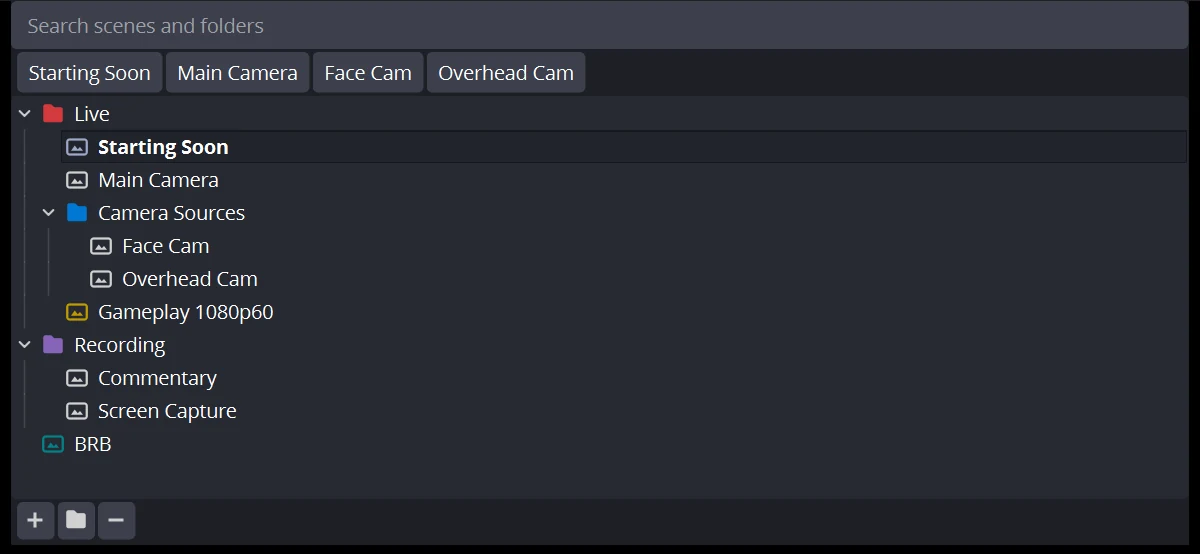
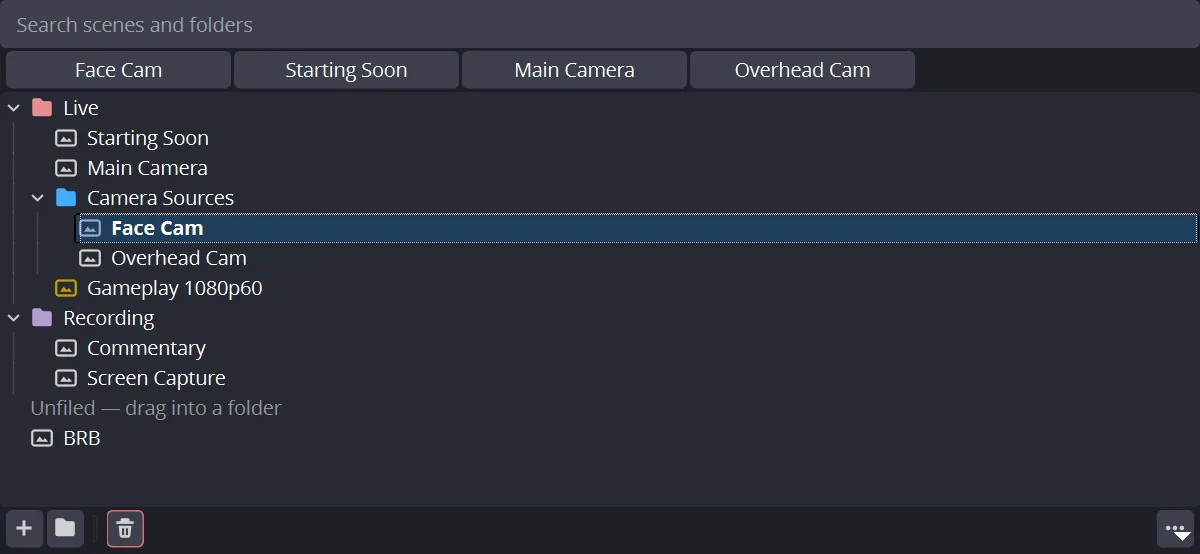
docs: re-shoot the hero shots so the toolbar matches what we ship
The old pair still showed the removed − button and a root-level tail scene;
the dock now has a separator, a danger-outlined trash, a settings entry and
an unfiled header. Note in design.md how a shot is taken without touching the
real OBS install or the user's config.

Changed region(s): [[0.0, 0.0, 1.0, 1.0]]

diff --git a/docs/design.md b/docs/design.md
@@ -198,6 +198,27 @@ obs-plugintemplate 官方模板。发行产物实测为：Windows x64 `.zip` / m
   永远跟着仓库名，可以省掉这次自我介绍。标题里放 Search 与 Colors 而不是「存在集合内」，
   是因为列表里读者比的是功能面，那个差异点要点进去才体会得到。
 
+### 首屏图：真 OBS 截的，不是量具渲染的
+
+`docs/images/hero-*.webp` 是浮窗 dock 的客户区实拍（1200×554 = 800×369 逻辑 @150% 缩放）。
+量具能渲染出同样的像素，但它不是「有人真的在用」的证据，所以这张图必须来自真进程。重拍一次要跨的坑：
+
+- **隔离配置用 `--portable`，但 portable 的配置根是相对工作目录的**（`../../config`）。
+  所以工作目录要摆成 `<scratch>/bin/64bit`，并给 `<scratch>/data` 建一个指向安装目录的 junction，
+  否则报 "Failed to find local data files"。
+- **`<scratch>/obs-plugins/64bit` 反过来要自己建、只放需要的 DLL**。它同样按工作目录解析，
+  于是可以只留 `rtmp-services.dll`（少了它起不来：service 与编码器都在插件里）。
+  用户装的那些会弹窗的第三方插件因此不会被加载，也不用动 Program Files。
+- 插件本体走 `OBS_PLUGINS_PATH` + `OBS_PLUGINS_DATA_PATH` 指向 `build_x64/rundir/RelWithDebInfo`
+  （两者同一个目录：OBS 自己往数据路径后拼 `/%module%`）。portable 模式会跳过
+  `%PROGRAMDATA%\obs-studio\plugins` 那条搜索路径，正好避开上一次装的旧版。
+- **界面语言是 `user.ini` 的 `[General] Language`**，不是 `global.ini` 的 `Locale`——后者写了不生效。
+  图标开关（`SceneIcons`）和停靠布局同样在 `user.ini` 里，改完要等 OBS 正常退出（强杀会写出
+  崩溃哨兵，下次启动弹安全模式，而安全模式会禁用第三方插件，也就是我们自己）。
+- **点按钮先用 UIA 拿矩形，再发一次真实点击**。对着缩放后的截图目测坐标会偏一两行；
+  Qt 的 dock 浮动按钮在 UIA 里就叫 `Float`，浮起来之后 `MoveWindow` 按客户区尺寸调，
+  `PrintWindow` 连被遮挡的部分也能拍全。
+
 ### 许可证：GPL-2.0-or-later 是义务，不是偏好
 
 `libobs` 的头文件写的是 GPL **v2 or later**，且 obs-studio 全仓库没有任何链接例外
